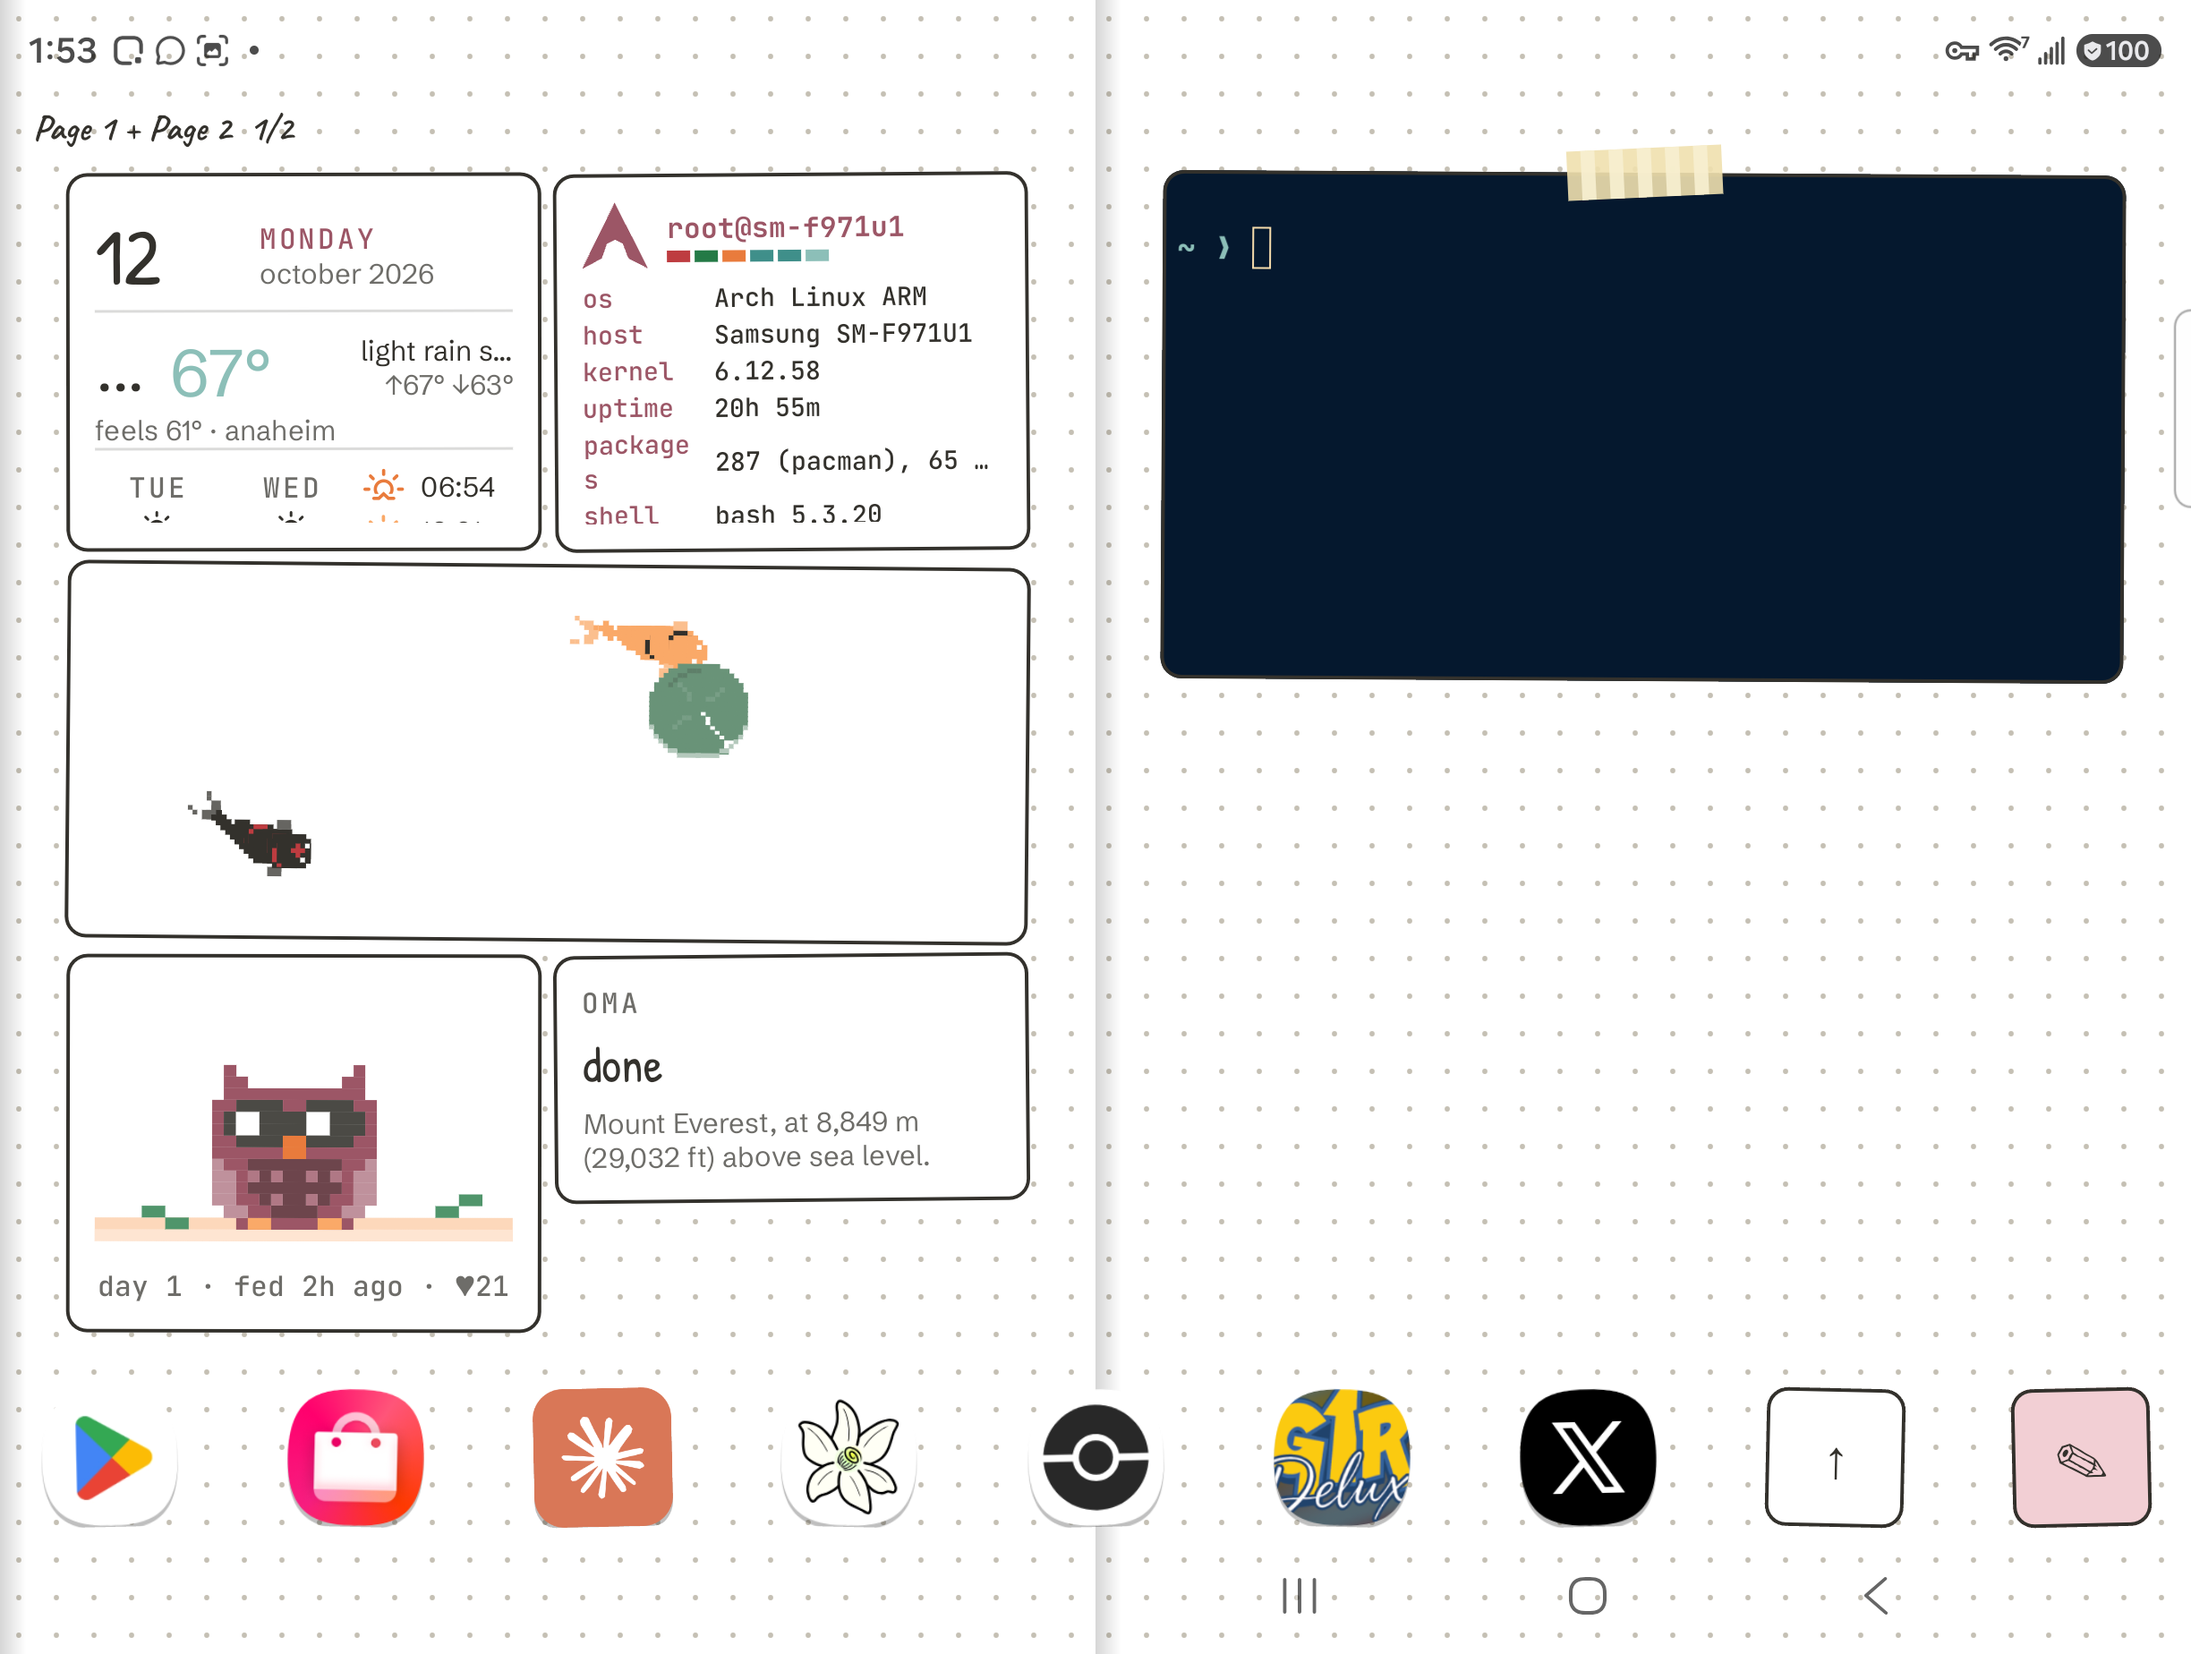
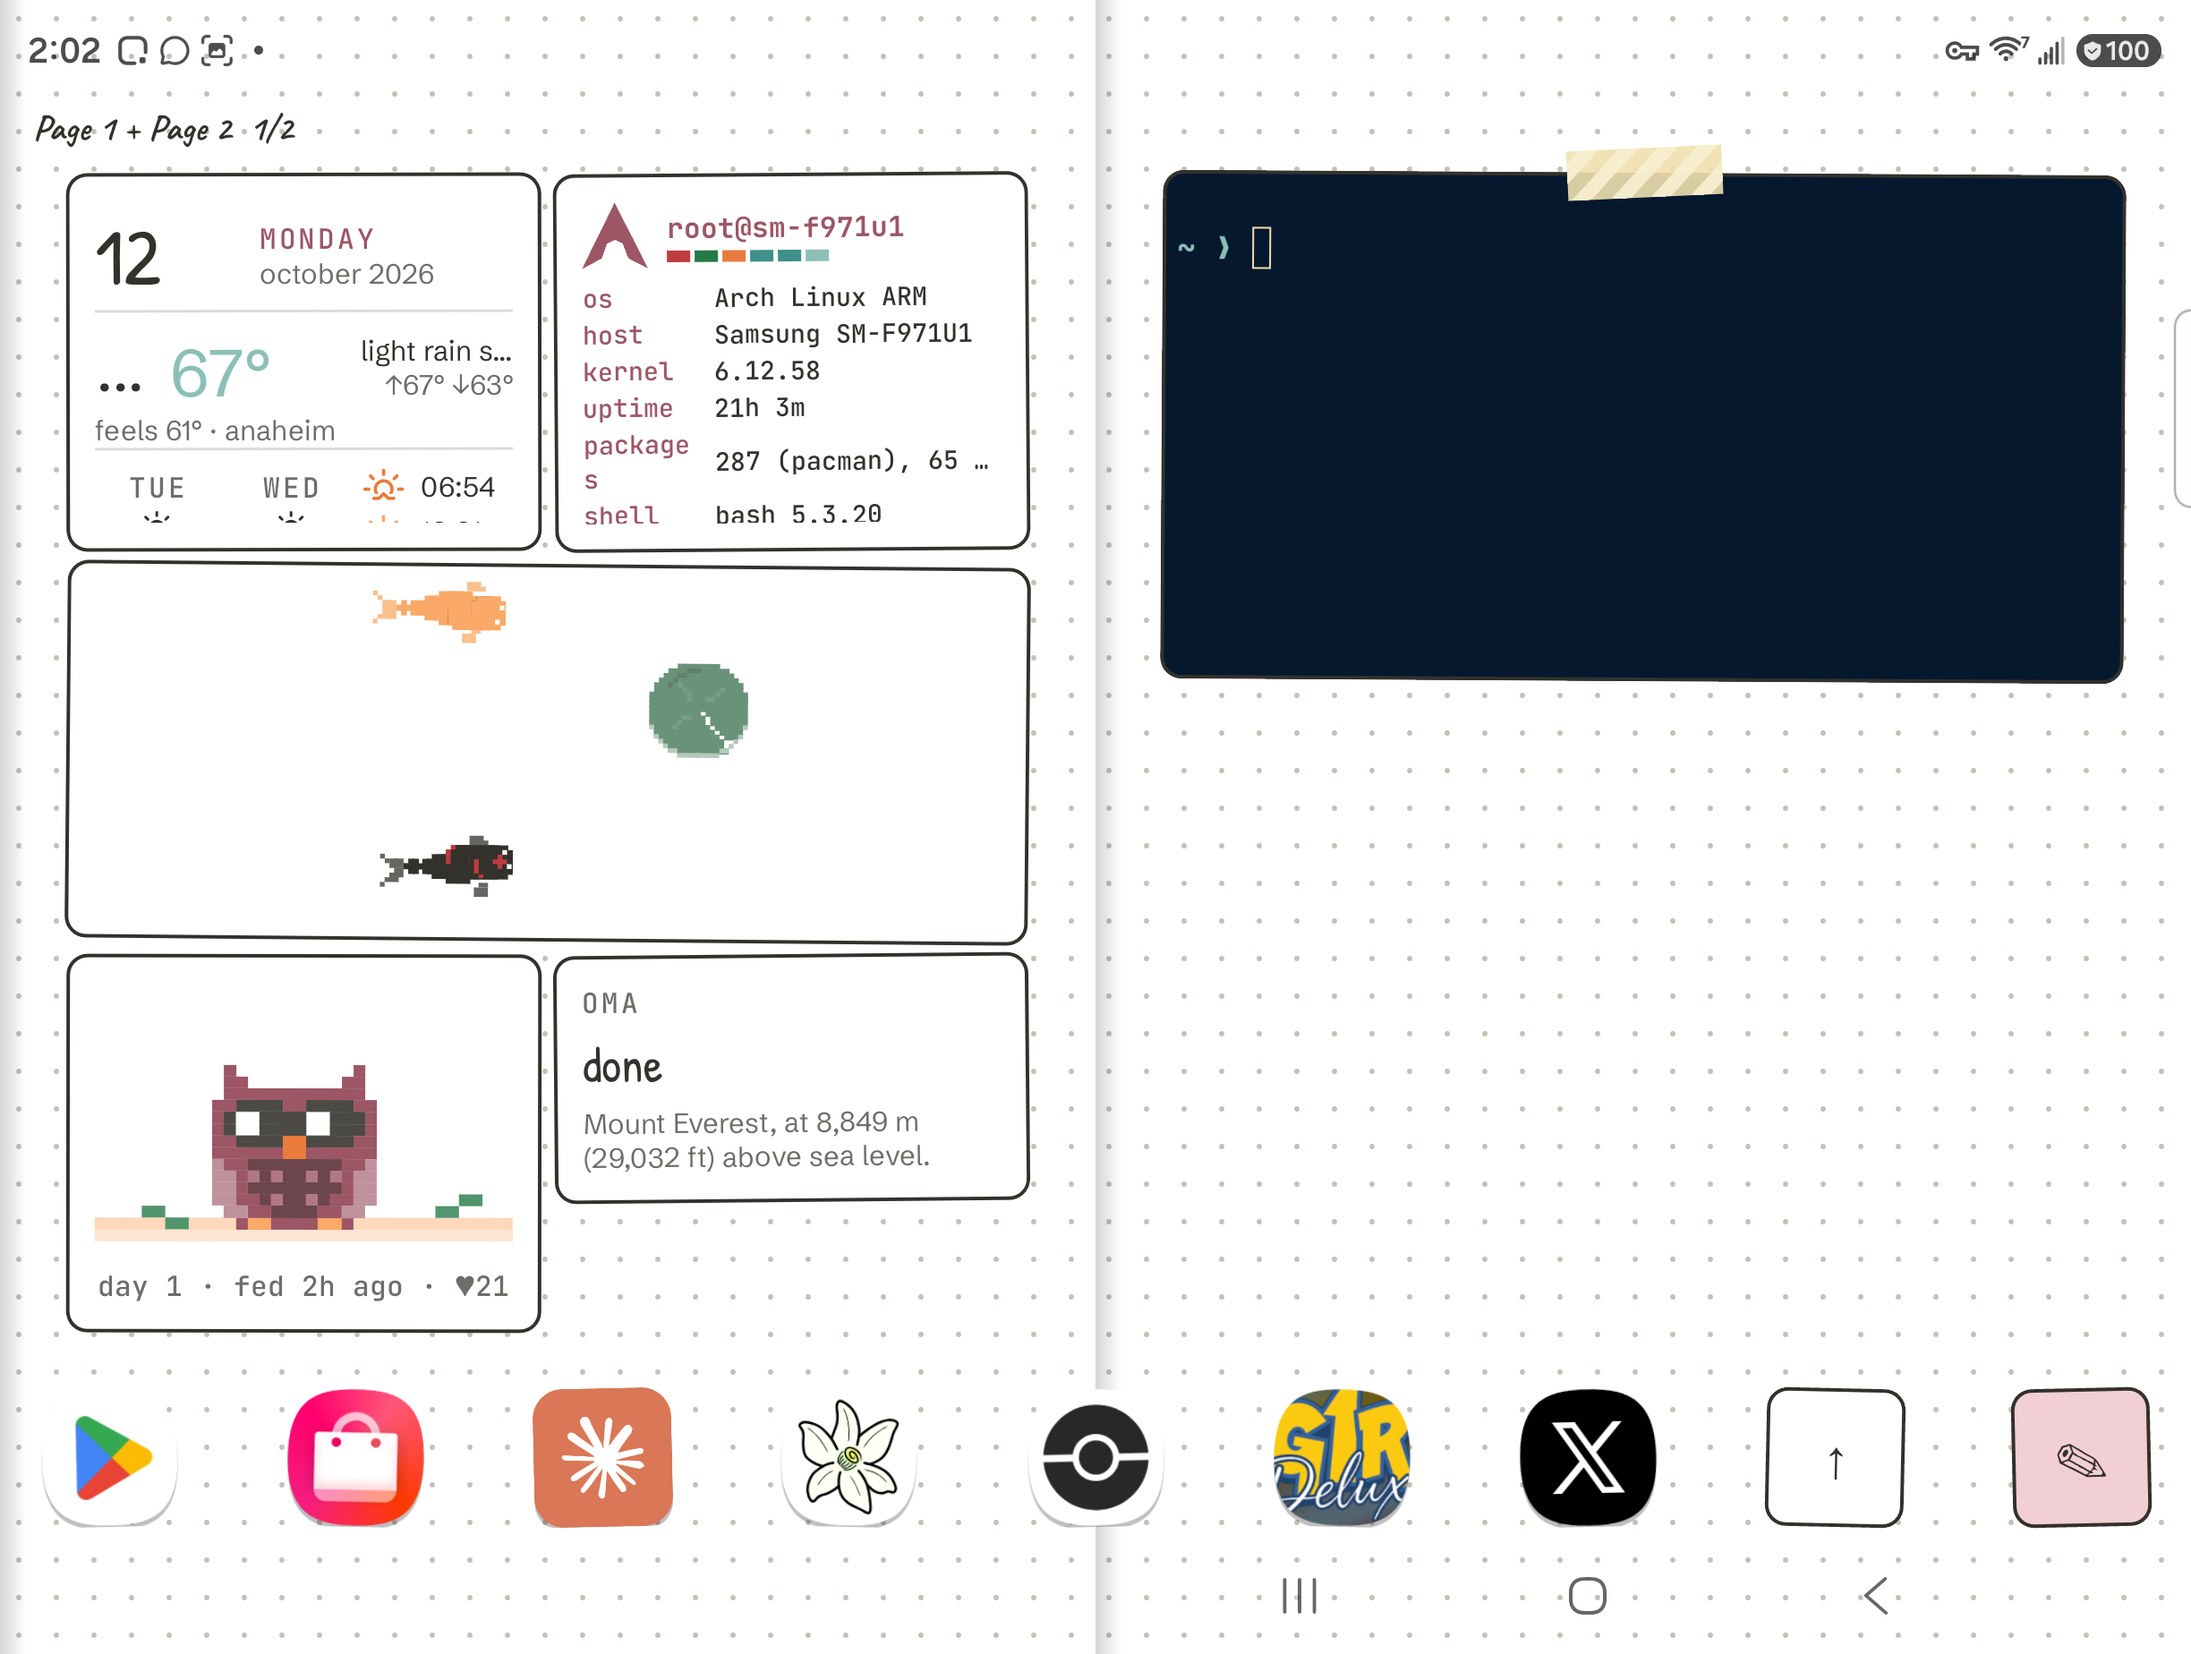
Close the looks' gaps against the prototype
The app list's names and captions are in the page's ink, so Tiny Magazine's list
stands on its blue paper. Washi tape is striped across at 45 degrees. The status
bar's icons follow the page's color under a wallpaper too. Riso casts the soft
shadow under app icons and the pink one under its emphasised scraps, and Dial-Up
and 1-bit set their headings in Pixelify regular.

diff --git a/app/src/main/kotlin/dev/omalauncher/ui/AppDrawer.kt b/app/src/main/kotlin/dev/omalauncher/ui/AppDrawer.kt
@@ -462,8 +462,8 @@ internal fun AppPanel(
                 horizontalArrangement = Arrangement.SpaceBetween,
                 verticalAlignment = Alignment.CenterVertically,
             ) {
-                SectionLabel("all apps")
-                BasicText(Pack.caption("close ↓"), Modifier.clickable { state.close() }.padding(top = 12.dp, bottom = 4.dp), style = Pack.mono(color = Pack.muted))
+                SectionLabel("all apps", color = Pack.pageMuted)
+                BasicText(Pack.caption("close ↓"), Modifier.clickable { state.close() }.padding(top = 12.dp, bottom = 4.dp), style = Pack.mono(color = Pack.pageMuted))
             }
         } else {
             searchRow()
@@ -496,7 +496,7 @@ internal fun AppPanel(
                         apps: List<AppHit>,
                     ) {
                         if (apps.isEmpty()) return
-                        item(key = "h:$title") { SectionLabel(title, Modifier.padding(start = 8.dp)) }
+                        item(key = "h:$title") { SectionLabel(title, Modifier.padding(start = 8.dp), color = Pack.pageMuted) }
                         apps.chunked(columns).forEachIndexed { r, cells -> row("$title:$r", cells) }
                     }
 
@@ -657,7 +657,8 @@ private fun AppCell(
         Spacer(Modifier.height(6.dp))
         BasicText(
             label,
-            style = Pack.body(Pack.size.small).copy(textAlign = TextAlign.Center),
+            // The list stands on the look's paper where it has one: names are in the page's ink, as the prototype's are.
+            style = Pack.body(Pack.size.small, if (Pack.ownsPage) Pack.onPage else Pack.foreground).copy(textAlign = TextAlign.Center),
             // Always two lines tall, so a row keeps its height whichever apps fill it while typing.
             maxLines = 2,
             minLines = 2,

diff --git a/app/src/test/kotlin/dev/omalauncher/theme/pack/ActivePackTest.kt b/app/src/test/kotlin/dev/omalauncher/theme/pack/ActivePackTest.kt
@@ -381,9 +381,9 @@ class ActivePackTest {
                 assertTrue("$id $name", shadow.visible)
             }
         }
-        // Riso's two, Instrument's six and 1-bit's three (its alt scrap casts the black one now); City Pop's five (scrap, alt, dock, placeholder, text),
+        // Riso's three (its emphasised scrap casts the pink one too), Instrument's six and 1-bit's three (its alt scrap casts the black one now); City Pop's five (scrap, alt, dock, placeholder, text),
         // Custard's eight (its placeholder carries the scrap's two), Tiny Magazine's four (its placeholder casts the clipping's), Bujo's none and Dial-Up's three.
-        assertEquals(31, declared)
+        assertEquals(32, declared)
         // No color anywhere in a shipped manifest is written with eight digits and a clear alpha.
         for ((id, _) in shipped) {
             val clear = Regex("\"#00[0-9a-fA-F]{6}\"").findAll(moduleFile("src/main/assets/packs/$id/pack.toml").readText()).map { it.value }.toList()

diff --git a/app/src/main/kotlin/dev/omalauncher/ui/ScrapFrame.kt b/app/src/main/kotlin/dev/omalauncher/ui/ScrapFrame.kt
@@ -238,11 +238,14 @@ private fun DrawScope.tape(tape: PackTape) {
         if (tape.style == Dressing.Stripes) {
             val second = tape.color2.toColor().let { it.copy(alpha = it.alpha * tape.opacity) }
             val band = 6.dp.toPx()
+            // Washi stripes run across the tape at 45 degrees, as the prototype's do.
             clipRect(left, -h / 2f, left + w, h / 2f) {
-                var x = left + band
-                while (x < left + w) {
-                    drawRect(second, Offset(x, -h / 2f), Size(band, h))
-                    x += band * 2f
+                rotate(45f, pivot = Offset(left + w / 2f, 0f)) {
+                    var x = left - w
+                    while (x < left + 2f * w) {
+                        drawRect(second, Offset(x, -w), Size(band, 2f * w))
+                        x += band * 2f
+                    }
                 }
             }
         }

diff --git a/app/src/test/kotlin/dev/omalauncher/ui/IconLookTest.kt b/app/src/test/kotlin/dev/omalauncher/ui/IconLookTest.kt
@@ -223,7 +223,7 @@ class IconLookTest {
 
     /** The treatment each shipped look has, as the prototype has it: it draws a drop shadow under a real icon in every look. */
     @Test fun theShippedPacksTreatIconsAsThePrototypeDoes() {
-        assertEquals(IconLook(false, null, false, PlaceholderStyle.Letter), iconLook(shipped("riso").icons))
+        assertEquals(IconLook(false, null, true, PlaceholderStyle.Letter), iconLook(shipped("riso").icons))
         assertEquals(iconLook(icons(IconTreatment.Original, saturation = 0.75f, shadow = true)), iconLook(shipped("instrument").icons))
         assertEquals(iconLook(icons(IconTreatment.Grayscale, contrast = 1.5f, shadow = true)), iconLook(shipped("one-bit").icons))
         for (id in listOf("city-pop", "custard", "tiny-magazine", "bujo", "dial-up")) {

diff --git a/app/src/main/kotlin/dev/omalauncher/ui/PackAdapter.kt b/app/src/main/kotlin/dev/omalauncher/ui/PackAdapter.kt
@@ -60,7 +60,7 @@ internal fun ThemePalette.packColors(): Map<String, String> =
     named.mapValues { PackColor(it.value.toArgb()).toString() } + ("mode" to if (isLight) "light" else "dark")
 
 /** True when text straight on [pack]'s page should be dark: its paper is light, or its palette says so. */
-internal fun pageIsLight(pack: ThemePack) = if (pack.page.kind == PageKind.Paper) pack.page.color.toColor().luminance() > 0.5f else pack.palette.isLight
+internal fun pageIsLight(pack: ThemePack) = if (pack.page.kind != PageKind.System) pack.page.color.toColor().luminance() > 0.5f else pack.palette.isLight
 
 /**
  * [pack]'s own palette as the colors everything not yet drawn from the pack reads: its eight theme roles

diff --git a/app/src/main/kotlin/dev/omalauncher/ui/Components.kt b/app/src/main/kotlin/dev/omalauncher/ui/Components.kt
@@ -89,7 +89,9 @@ fun Modifier.bleed(gutter: Dp) =
 fun SectionLabel(
     text: String,
     modifier: Modifier = Modifier,
-) = BasicText(Pack.caption(text), modifier.padding(top = 12.dp, bottom = 4.dp), style = Pack.mono(color = Pack.muted))
+    /** On a panel by default; a heading straight on the page takes the page's own muted ink. */
+    color: Color = Pack.muted,
+) = BasicText(Pack.caption(text), modifier.padding(top = 12.dp, bottom = 4.dp), style = Pack.mono(color = color))
 
 /** A [Glyph] from the launcher's Nerd Font subset, sized like text. */
 @Composable
